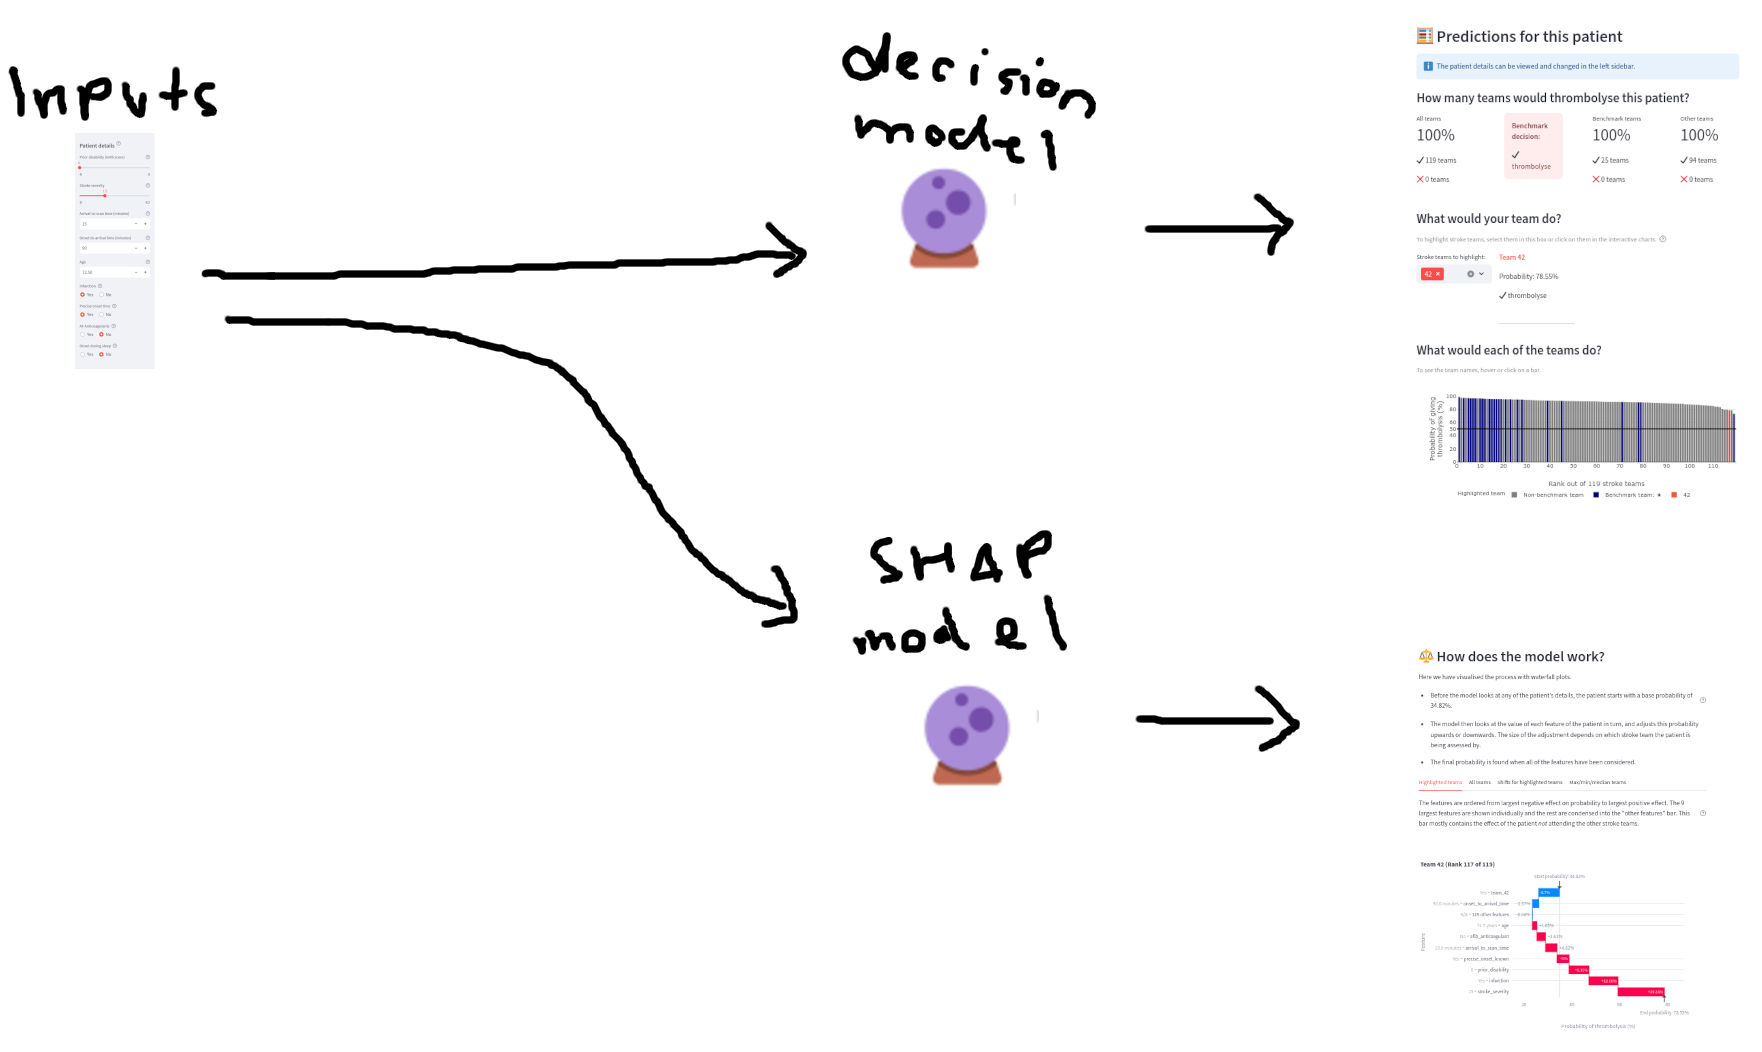
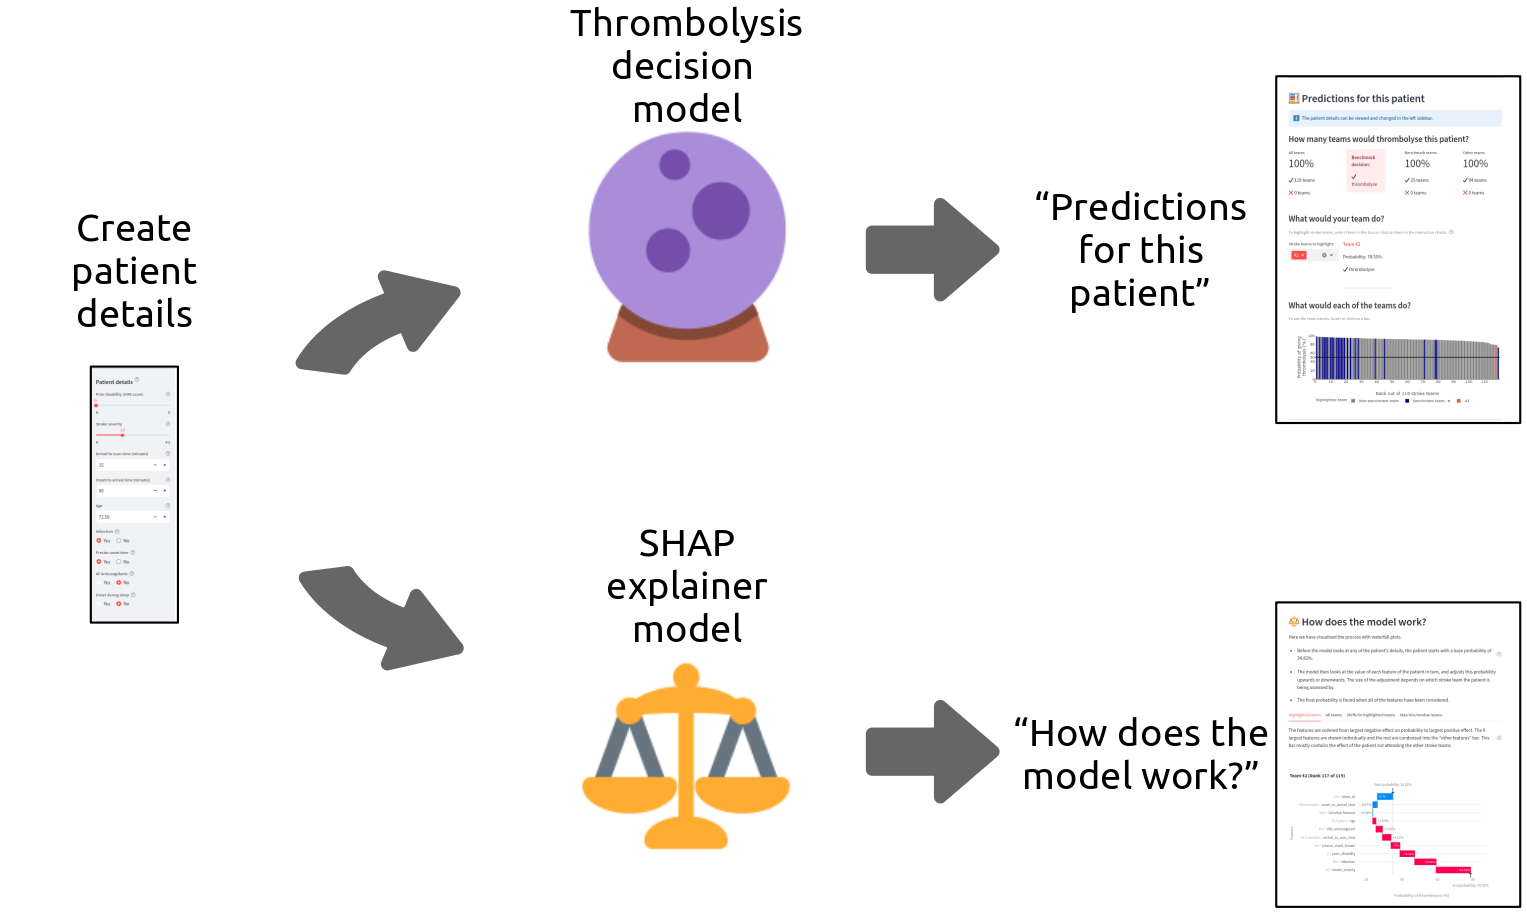
Improved details page

diff --git a/pages/3_🔎_Details.py b/pages/3_🔎_Details.py
@@ -1,0 +1,362 @@
+import streamlit as st
+
+from utilities_ml.fixed_params import page_setup
+from utilities_ml.inputs import write_text_from_file
+
+page_setup()
+
+p = 'pages/text_for_pages/'
+
+st.warning('Work in progress', icon='⚠')
+
+# st.markdown('# 🗃 🗂 📁 ')
+
+# thing = st.toggle('What dis?')
+# if thing:
+#     pass
+# else:
+#     pass
+
+st.markdown('# 🔎 Details') # # 🧐 Details
+
+st.markdown('# What the app shows')
+write_text_from_file(f'{p}3_Notes.txt',
+                     head_lines_to_skip=2)
+
+
+# st.image(f'{p}images/whole_app_screenshot.png')
+st.image(f'{p}images/app_overview_models.png')
+st.caption('A cartoon to show which parts of the app\'s demo page are created by each model.')
+
+st.markdown('## 🏥 Stroke teams')
+write_text_from_file(f'{p}3_Details_Stroke_teams.txt',
+                     head_lines_to_skip=2)
+
+
+st.markdown('## 📈 Patient data')
+write_text_from_file(f'{p}3_Details_Patient_data.txt',
+                     head_lines_to_skip=2)
+
+st.markdown('## 🔮 Prediction model')
+write_text_from_file(f'{p}3_Details_Prediction_model.txt',
+                    head_lines_to_skip=2)
+
+
+st.markdown('## ⚖ SHAP values')
+write_text_from_file(f'{p}3_Details_SHAP.txt',
+                     head_lines_to_skip=2)
+
+feats_dict = {
+    'Anticoagulants':'afib_anticoagulant',
+    'Age':'age',
+    'Arrival to scan time':'arrival_to_scan_time',
+    'Infarction':'infarction',
+    'Onset during sleep':'onset_during_sleep',
+    'Onset to arrival time':'onset_to_arrival_time',
+    'Precise onset known':'precise_onset_known',
+    'Prior disability':'prior_disability',
+    'Stroke severity':'stroke_severity'
+}
+feat_pretty = st.selectbox(
+    'Select a feature to display', 
+    options=list(feats_dict.keys())
+    )
+feat = feats_dict[feat_pretty]
+image_name = f'04_xgb_10_features_thrombolysis_shap_boxplot_{feat}.jpg'
+st.image(f'{p}images/{image_name}')
+
+# Write some information about that image.
+# First define a string with the info for each image,
+# and then use another dictionary to pick out the relevant string.
+afib_anticoagulant_str = '''
+When the patient is on anticoagulants, the "feature value" at the bottom is 1.
+The average SHAP value is below -1.5 when the patient is on anticoagulants.
+This means that the patient is considerably less likely to be treated
+than if they were not on blood-thinning medication.
+'''
+age_str = '''
+The average SHAP value decreases as age increases.
+For patients below the age of 80, the SHAP value is positive and so
+there is a small increase in the chance of thrombolysis.
+For patients above the age of 80, the SHAP value is negative and becomes
+more and more negative with increasing age. This reduces the chance of these
+older patients receiving thrombolysis.
+'''
+arrival_to_scan_time_str = '''
+The average SHAP value decreases as the time between arrival at hospital
+and receiving a brain scan increases. 
+On average, every extra 30 minutes decreases the SHAP value by around 0.5.
+That means that after every hour on average, the chance of receiving
+thrombolysis becomes three times smaller.
+'''
+infarction_str = '''
+When the "feature value" at the bottom is 1, the patient has an infarction
+which is also called a blood clot. When the patient does not have a blood clot,
+the average SHAP value is very negative at around minus 9. This means that
+the chance of being given thrombolysis becomes very small. This reflects how
+in real life, clot-busting drugs should not be given when there is no clot.
+'''
+onset_during_sleep_str = '''
+When the "feature value" at the bottom is 1, the patient\'s stroke began
+while they were asleep. This means that the exact time that the stroke
+started is less accurately known, and so the chance of their being treated
+with thrombolysis is reduced considerably. The average SHAP value in this
+case is below minus 1.
+'''
+onset_to_arrival_time_str = '''
+The average SHAP value decreases as the time between the start of the stroke and
+the arrival at hospital increases. Patients arriving before 120 minutes are
+slightly more likely to receive treatment. Patients arriving after 120 minutes
+are slightly less likely to receive treatment.
+'''
+precise_onset_known_str = '''
+When the "feature value" at the bottom is 0, the time that the stroke started
+is not known precisely. The average SHAP value in this case is almost minus 1.
+This makes the patient somewhat less likely to receive thrombolysis.
+'''
+prior_disability_str = '''
+As the prior disability score increases, the average SHAP value decreases.
+This means that patients who had a higher level of disability before the
+stroke began are somewhat less likely to be treated than patients with
+no pre-stroke disability.
+'''
+stroke_severity_str = '''
+In this chart, each separate score for stroke severity has its own box.
+The average SHAP value is negative for low scores below 5
+and for high scores above 32. For scores between those values,
+the average SHAP value is positive. This means that the most mild and the
+most severe strokes are somewhat less likely to be treated with thrombolysis,
+and the most moderate strokes are somewhat more likely to be treated 
+with thrombolysis.
+'''
+
+feats_str_dict = {
+    'Anticoagulants':afib_anticoagulant_str,
+    'Age':age_str,
+    'Arrival to scan time':arrival_to_scan_time_str,
+    'Infarction':infarction_str,
+    'Onset during sleep':onset_during_sleep_str,
+    'Onset to arrival time':onset_to_arrival_time_str,
+    'Precise onset known':precise_onset_known_str,
+    'Prior disability':prior_disability_str,
+    'Stroke severity':stroke_severity_str
+}
+st.markdown(feats_str_dict[feat_pretty])
+
+st.markdown('''## ⛲ Waterfall plots
+
+### How do you read a waterfall plot?
+ 
+The waterfall plot has a number of rows. Each row is labelled with a patient detail name, and each row contains a coloured block. The blocks show the effect of that patient detail on the overall probability of receiving thrombolysis. Larger blocks mean a larger effect. The size of the effect is also written next to each block.
+
+Always start at the top at the place marked "start probability". Then move downwards row by row, adding or removing probability, until you reach the bottom of the plot. The "end probability" that you are left with after adding on the effect of all of the coloured blocks is the overall probability of thrombolysis for this patient.
+
+The features are ordered from largest negative effect on probability to largest positive effect. The 9 largest features are shown individually and the rest are condensed into the "other features" bar. This bar mostly contains the effect of the patient _not_ attending the other stroke teams.
+''')
+st.image(f'{p}images/waterfall.png')
+st.caption('An example waterfall plot.')
+
+st.markdown('''
+### What does this example show?
+
+The patient starts with a probability of treatment of 34.82%. Then working downwards, the following changes happen:
+            ''')
+with st.expander('Detailed look'):
+    write_text_from_file(f'{p}3_Details_Waterfall.txt',
+                        head_lines_to_skip=2)
+
+st.markdown('''## 🧙♀ Wizard hat plots
+            
+The wizard hat plot is so named because the resulting lines look like the shape of a wonky crooked cartoon wizard's hat.
+            
+The plot combines the data in all of the separate stroke teams' SHAP waterfall plots.
+            
+### How do you read a wizard's hat plot?
+
+This plot should be read in the same way as a waterfall plot. Start at the top and work downwards row by row, shifting the "probability so far" in each row left or right a bit depending on the patient details.
+            
+Instead of drawing coloured blocks to show the shifts in probability, this graph simply connects the points with a straight line. Each stroke team gets one coloured line that runs from the top row to the bottom row.
+            
+There are so many lines that it is difficult to follow the progress of individual teams unless they are highlighted in a different colour. This means that the graph is best used to get an idea of how the patient details affect the probability of treatment for the different stroke teams.
+            
+The features are ordered with the most agreed on features at the top, and the ones with more variation lower down.
+            ''')
+st.image(f'{p}images/wizard.png')
+st.caption('An example wizard\'s hat plot.')
+write_text_from_file(f'{p}3_Details_Wizard_Hat.txt',
+                     head_lines_to_skip=2)
+
+st.markdown('## 🎻 Violin plots')
+st.markdown('''
+The violin plot shows the distribution of values across all stroke teams. These values are usually the probabilities of receiving thrombolysis.
+
+### How do you read a violin plot?
+
+The range of possible values is shown from left to right. The violin is fatter where there are more stroke teams with that value. Usually there are one or two values that most of the teams are close to and so the violin will appear fattest there. 
+
+The black lines show the smallest, average (median) and largest probabilities out of all of the teams.
+
+            ''')
+cols_violin = st.columns(2)
+with cols_violin[0]:
+    st.image(f'{p}images/violin.png')
+    st.caption(''.join([
+        'Three example violin plots. ',
+        'The top row shows the range of values for all teams. ',
+        'The middle row shows only benchmark teams, and ',
+        'the bottom row shows only non-benchmark teams. ',
+        'The red circle highlights the value of one particular team.'
+        ]))
+with cols_violin[1]:
+    st.markdown('''
+### What does this example show?
+
+The top row shows that most of the teams have a probability above 80%. The violin is fattest around 85% to 95% and so most of the values lie in that range. 
+
+We also have separate rows for only the benchmark and only the non-benchmark teams. There are 25 benchmark teams and 94 non-benchmark teams. Since most of the "all teams" row is made up of non-benchmark teams, the non-benchmark teams violin is usually similar in shape to the all team violin.
+
+The middle row shows only the benchmark teams. The probabilities here are more squashed up towards the right-hand-side, with most lying between 90% to 100%. This means that generally the benchmark teams result in higher probabilities than you generally see in all of the teams or in only the non-benchmark teams.
+                ''')
+st.markdown('''
+            
+
+### What do the circle markers mean?
+
+For the plots like in this example, the circle markers on top of the violins mark the values for any teams that have been highlighted. 
+
+There is no meaning behind how high up or low down the circle markers appear. They are moved up or down to reduce the overlap between circles with a similar place on the graph.
+'''
+            )
+
+st.markdown('-'*50)
+st.markdown('# How the app works')
+
+
+st.markdown('## 🧮 The data')
+st.markdown('''
+### What data do we use?
+
+The original data set comes from the Sentinel Stroke National Audit Programme (SSNAP). The data has the details of emergency hospital admissions for several hundreds of thousands of patients with stroke between the years 2016 and 2021. The data contains information such as the time between the start of the stroke and the arrival at hospital, what type of stroke it was, and which treatments were given.
+
+The models only use the ten features that are shown here in the app.
+
+💫 _More detail:_
++ Technical notes on the data set: [here](https://samuel-book.github.io/samuel-1/introduction/data.html).
+''')
+# cols_data = st.columns(2)
+# with cols_data[0]:
+st.markdown('''
+### What data goes into the models?''')
+st.image(f'{p}images/process_data_split.png')
+# with cols_data[1]:
+st.markdown('''
+We use a subset of the full data set to create the models.
+
+The decision model is created using a set of training data with around 100,000 patients.
+This includes only patients whose onset to scan time is four hours or less.
+We then use a testing data set of 10,000 patients to test the accuracy of the model.
+'''
+    )
+
+st.markdown('''## 🔮 Prediction model
+For the simplest explanation of what the app does:
+1. The input patient details are converted into a table that the model knows how to read.
+2. The details are passed to the decision model.
+3. The decision model calculates the probability of thrombolysis for each patient in the table.
+4. The probabilities are also converted to a simple "yes" or "no" for whether a patient would have received thrombolysis. We set any patient with at least 50% probability as "yes".
+''')
+
+st.image(f'{p}images/process_decision_model.png')
+
+
+st.markdown('''
+### Creating the decision model
+            
+💫 _More detail:_
++ A plain English summary of machine learning models: [here](https://samuel-book.github.io/samuel-2/samuel_shap_paper_1/introduction/intro.html)
+
+The decision model is a type of machine learning model called an XGBoost Classifier.
+We start off with a base model that has never been shown any data but is ready to learn.
+Then we give this model the training data set.
+The model goes through each patient in turn and decides whether or not they should receive thrombolysis.
+
+At first the model does an awful job because it doesn't have much experience.
+As the model sees more and more patients, it learns more about the general patterns that affect how likely patients are to be treated.
+When the model has seen all of the patients in the training data set, it has become quite accurate.
+Whether it says the patient would receive thrombolysis usually matches the actual case in real life.
+''')
+st.image(f'{p}images/process_create_decision_model.png')
+
+
+st.markdown('''
+
+### How do we know it works?
+
+We use a set of testing data from the real-life patient data set. For this data we know whether each patient received thrombolysis in real life. We can pass that data to the decision model to predict whether each patient was thrombolysed, and then see how often the prediction matched reality.
+
+(To do - write about the more robust checks including ROC-AUC.)
+''')
+
+st.markdown('''
+### Creating the SHAP explainer model
+
+The SHAP explainer model is created directly from the decision model. 
+
+We actually create two SHAP explainers. 
++ One uses only the decision model and works in units of log-odds. These units are technically more useful than simple probabilities, but they are also more difficult to understand intuitively. This model is used to define the benchmark teams.
++ The second SHAP explainer works in units of probability, and also uses the testing data set to calibrate the probabilities. This model is used to show the decision model's workings in this app.
+''')
+
+
+st.image(f'{p}images/process_create_shap_models.png')
+
+st.markdown('''
+## ⚖ SHAP values  
+ 
+For the simplest explanation of what the app does:
+1. The input patient details are converted into a table that the model knows how to read. This table can also be read by the SHAP explainer model.
+2. The data is passed to the SHAP explainer model.
+3. The model provides a series of SHAP values. The values for each patient are not affected by any other patients. A SHAP value is calculated for each input patient detail and for each stroke team.
+''')
+
+st.image(f'{p}images/process_shap_model.png')
+
+st.markdown('''### Creating a waterfall plot
+            
+To create a waterfall plot:
+1. Separate off one patient's data.
+2. Sort the SHAP values from smallest to biggest.
+3. Add up all of the 119 values in the middle. Each of these should have a small effect compared with the remaining 9 values.
+4. Plot the base probability.
+5. For each value in the table in turn, add it to the probability so far. Work downwards along the waterfall until the plot is complete. ''')
+st.image(f'{p}images/process_waterfall.png')
+
+st.markdown('''### Creating a wizard\'s hat plot
+            
+To create a wizard's hat plot:
+1. Combine all of the separate teams' values into one value by adding them together.
+2. For each feature, calculate the standard deviation across all of its SHAP values. This is a measure of how similar the values are.
+3. Sort the table from the smallest standard deviation (most similar values) to the largest. This is the order in which we'll plot the data.
+4. For one team at a time, go back to the original table and:
+    1. Draw the base probability.
+    2. Calculate how much the first feature in the list changes the base probability, and plot that on the next row.
+    3. Continue working down the waterfall until you reach the bottom.
+5. In the final row, take all of the final probabilities of thrombolysis and create a violin plot to show the distribution of values.
+''')
+st.image(f'{p}images/process_combo_waterfall.png')
+
+            
+st.markdown('## 🎯 Benchmark teams')
+st.markdown('''
+### What are benchmark teams?
+
+The benchmark teams are consistently more likely than average to choose to thrombolyse any patient. 
+
+### How are the benchmark teams picked?
+''')
+cols_bench = st.columns(2)
+with cols_bench[0]:
+    st.image(f'{p}images/flowchart_define_benchmarks.png')
+with cols_bench[1]:
+    write_text_from_file(f'{p}3_Details_Benchmark_teams.txt',
+                        head_lines_to_skip=2)
